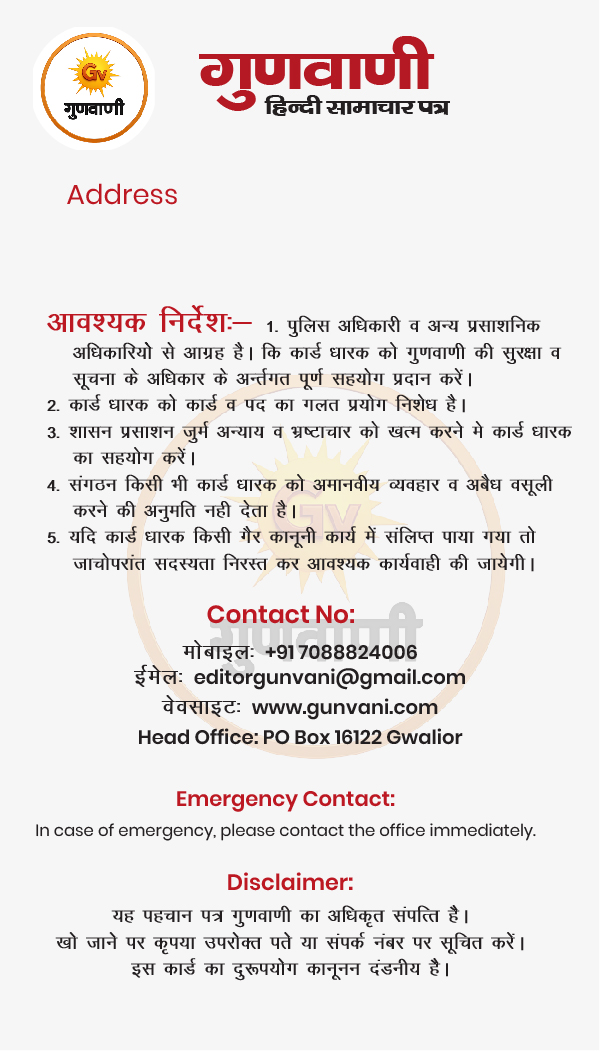
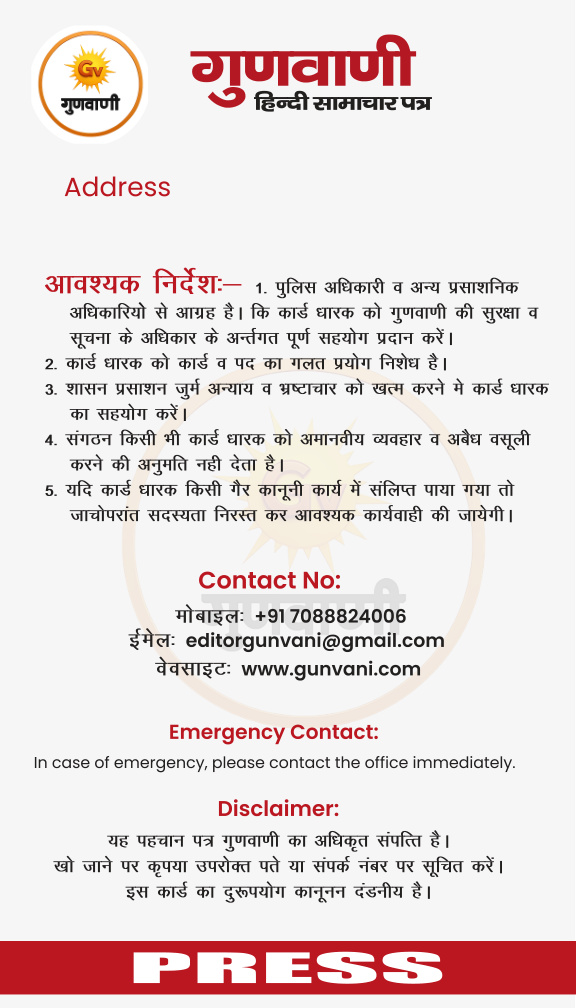
Update ID card templates using uploaded PDF

diff --git a/admin/generate_id.php b/admin/generate_id.php
@@ -184,7 +184,7 @@ try {
 
     $pdf->SetXY($backLeftX, 19);
     $pdf->SetFont('Arial', '', 4.5);
-    $pdf->MultiCell($backCellWidth, $lineHeight, "Address: " . $m_address, 0, 'L');
+    $pdf->MultiCell($backCellWidth, $lineHeight, $m_address, 0, 'L');
 
     /* -------------------------------------------------------
        OUTPUT
